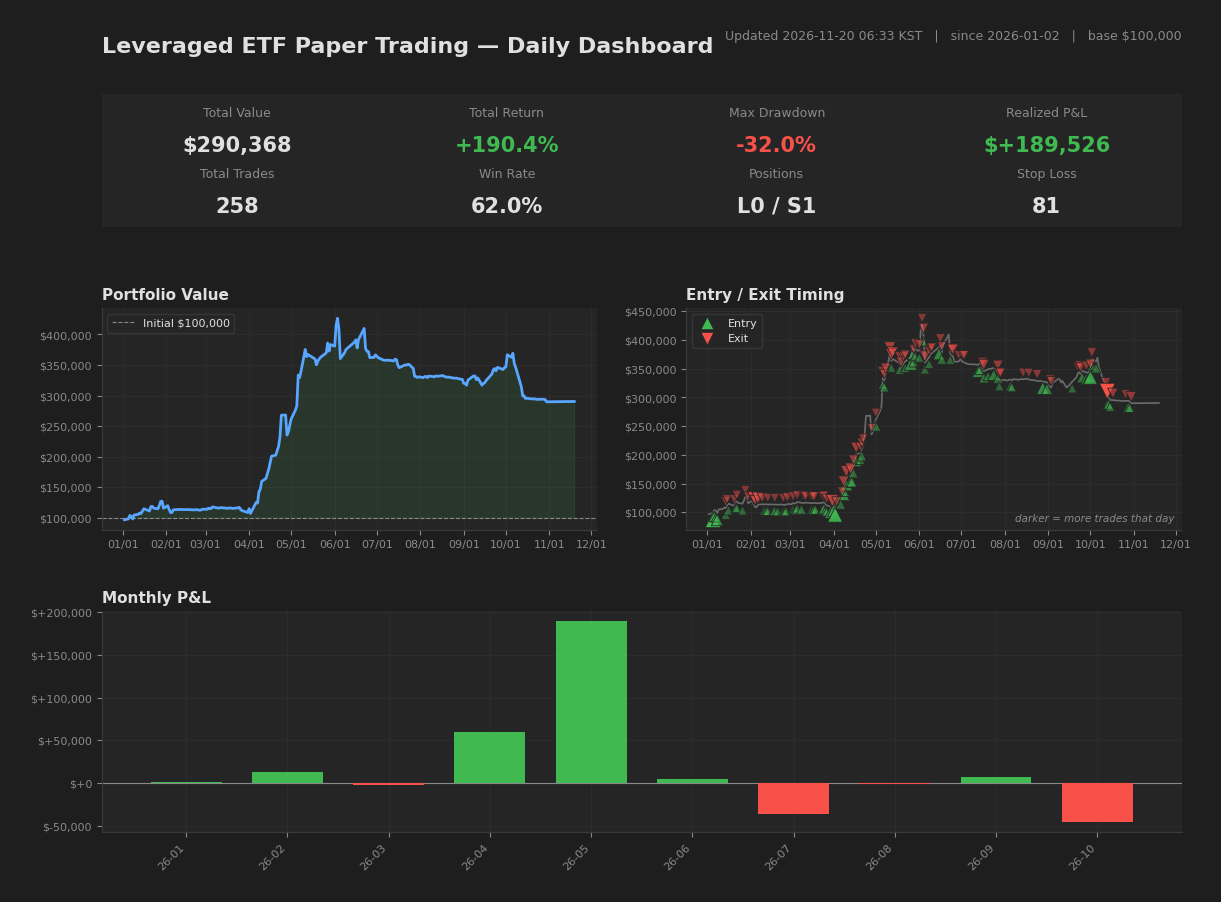
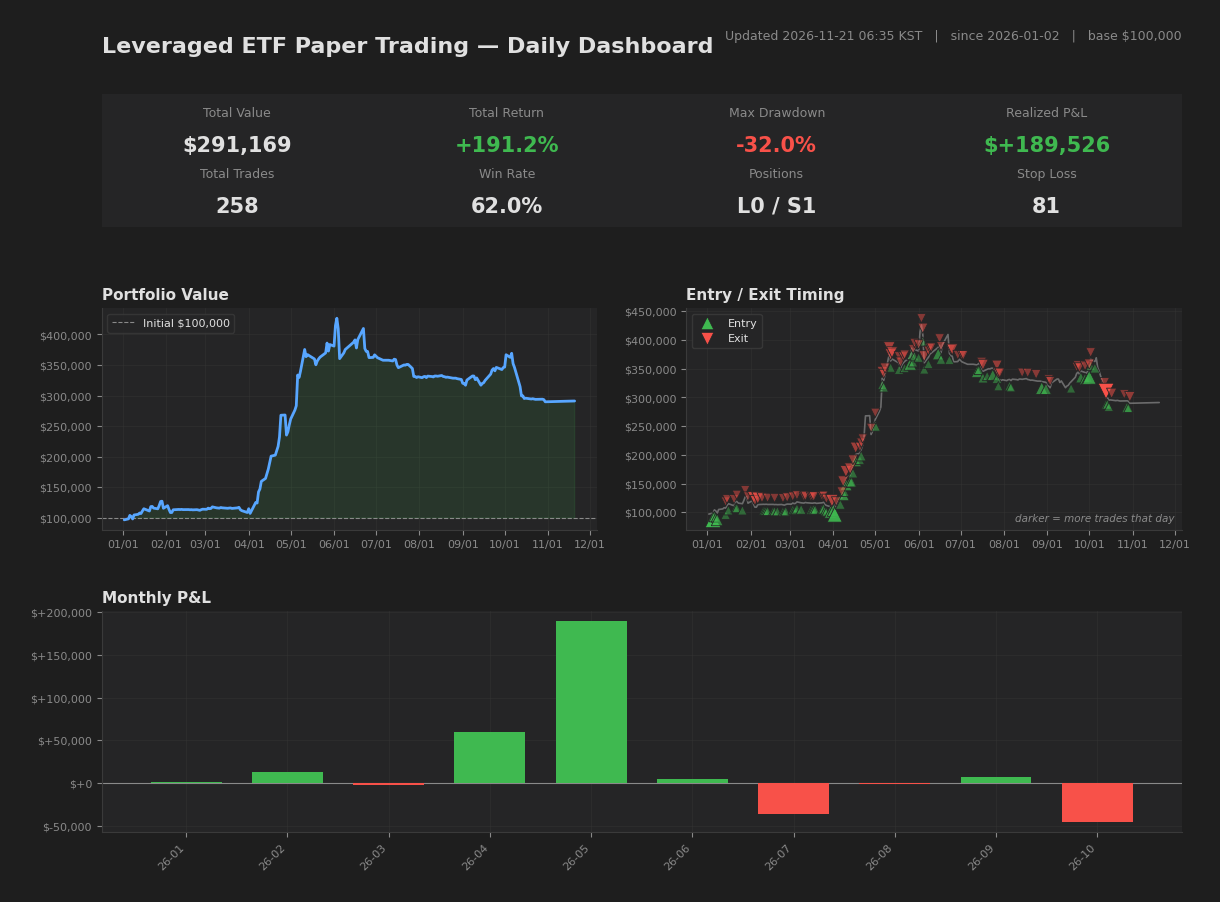
[2026-11-20] Close
Portfolio: $291,169 (+191.2%)
Positions: 1 (L0 S1)
Cumulative: 160/258 wins, P&L: $+189,526

diff --git a/README.md b/README.md
@@ -20,7 +20,7 @@ Drawdown control vs. benchmark. While the benchmark experienced a maximum drawdo
 
 <!-- METRICS:BEGIN (auto-generated by snapshot_backup.py after each market close; do not edit by hand) -->
 - Maximum drawdown: **-32.02%** (peak 2026-06-03 -> trough 2026-10-30, recovered since)
-- As of **2026-11-19** market close. Updated automatically after each close.
+- As of **2026-11-20** market close. Updated automatically after each close.
 <!-- METRICS:END -->
 
 Execution costs. Because the strategy holds positions over multi-day periods with low turnover, the impact of slippage and commissions is designed to be limited rather than a primary driver of results.
